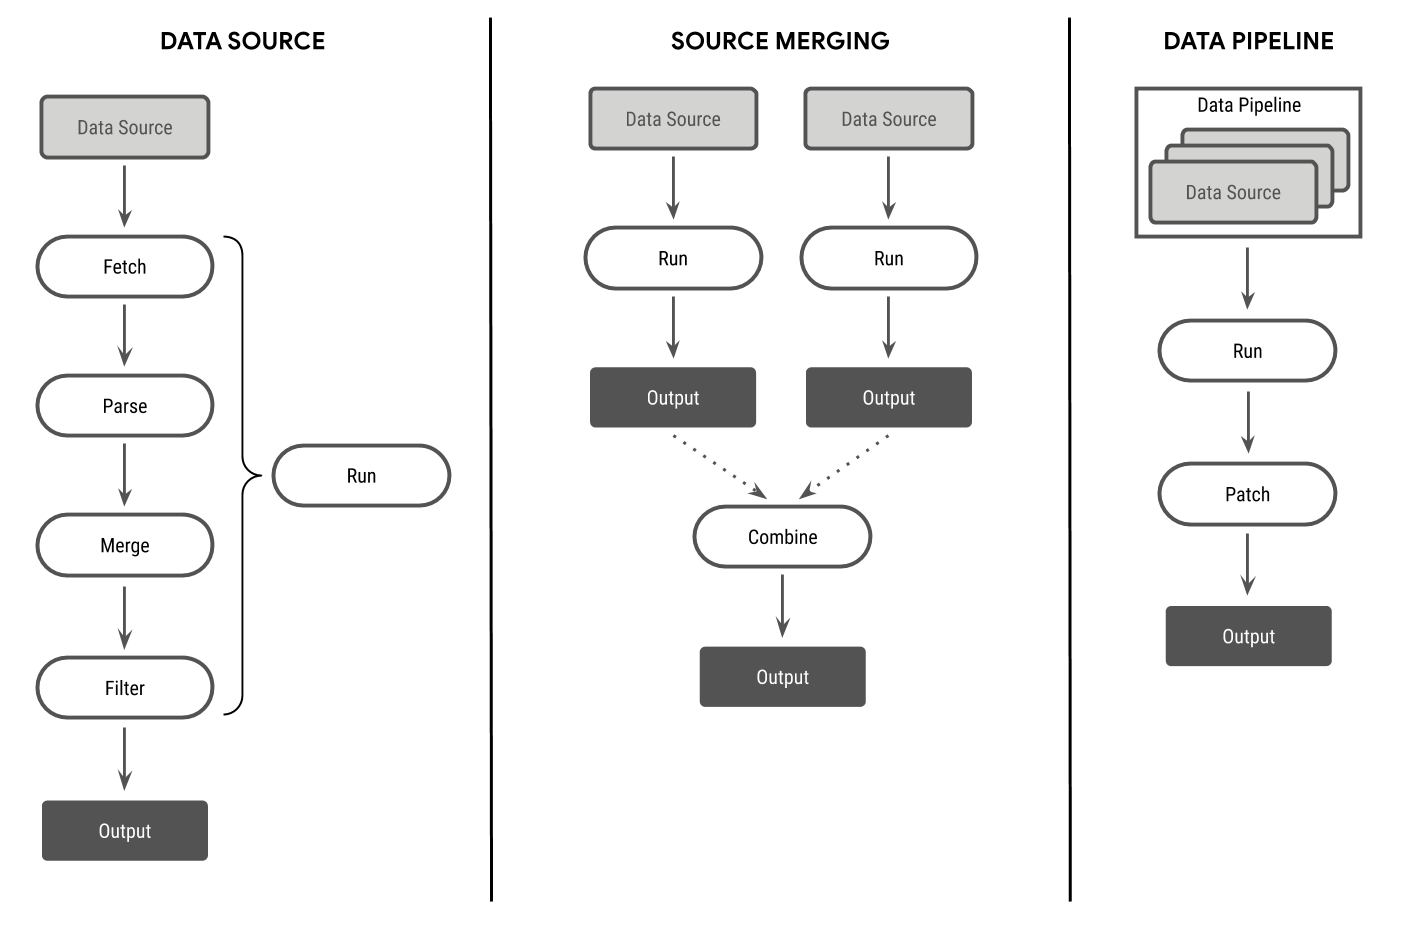
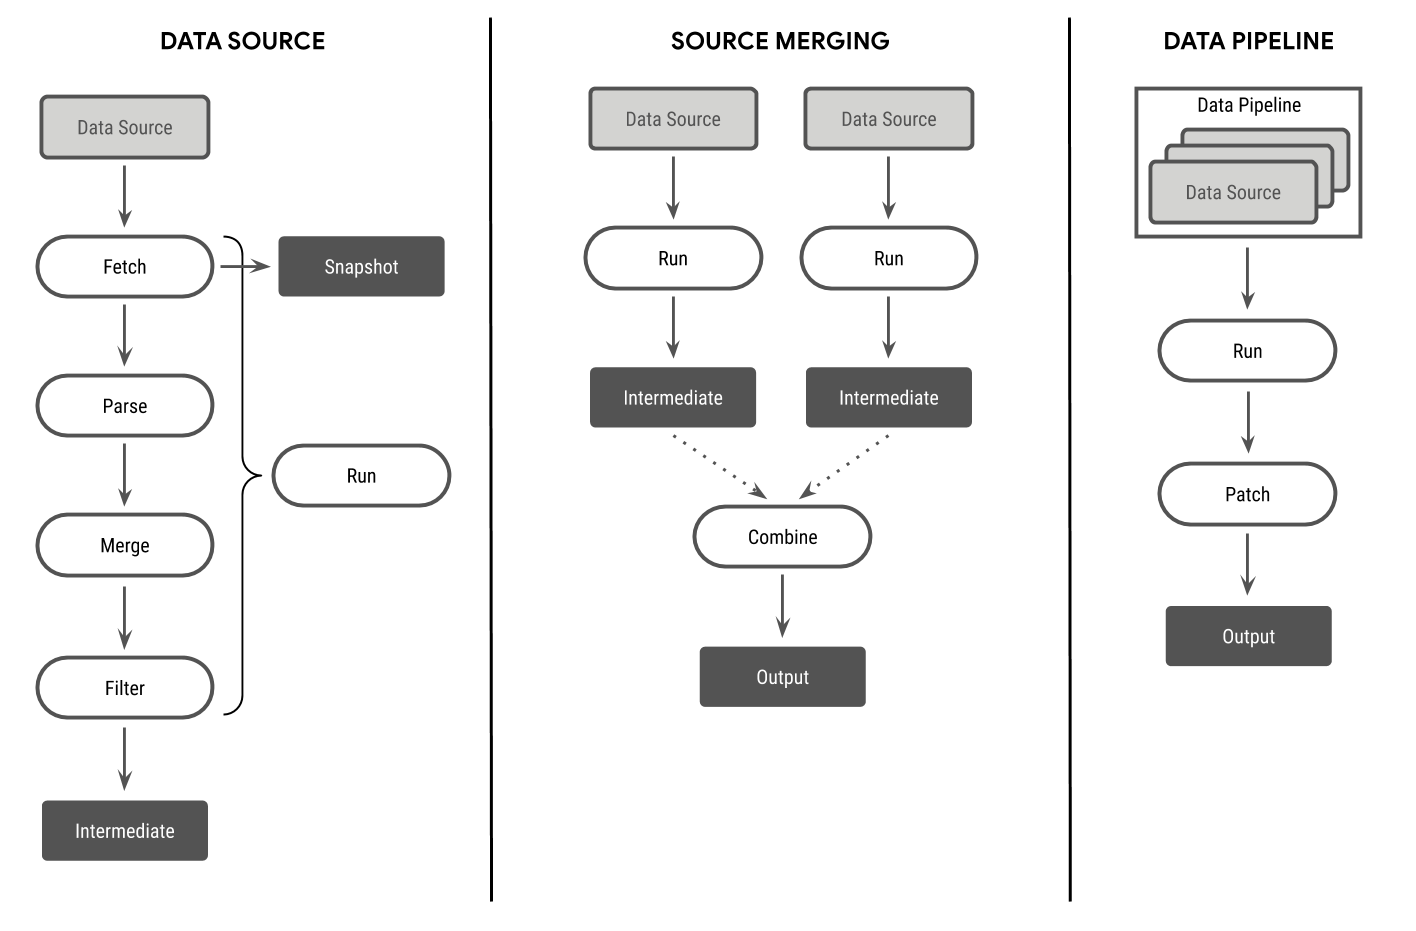
Add intermediate results to data pipeline

diff --git a/src/lib/pipeline.py b/src/lib/pipeline.py
@@ -14,6 +14,7 @@
 
 import re
 import sys
+import uuid
 import warnings
 import importlib
 import traceback
@@ -34,7 +35,7 @@ from .anomaly import detect_anomaly_all, detect_stale_columns
 from .cast import column_convert
 from .concurrent import process_map
 from .net import download_snapshot
-from .io import read_file, fuzzy_text
+from .io import read_file, fuzzy_text, export_csv
 from .utils import (
     ROOT,
     CACHE_URL,
@@ -256,8 +257,8 @@ class DataPipeline:
     schema: Dict[str, Any]
     """ Names and corresponding dtypes of output columns """
 
-    pipelines: List[Tuple[DataSource, Dict[str, Any]]]
-    """ List of pipeline-options tuples executed in order """
+    data_sources: List[Tuple[DataSource, Dict[str, Any]]]
+    """ List of <data source, option> tuples executed in order """
 
     auxiliary_tables: Dict[str, Union[Path, str]] = {
         "metadata": ROOT / "src" / "data" / "metadata.csv",
@@ -270,12 +271,12 @@ class DataPipeline:
         self,
         schema: Dict[str, type],
         auxiliary: Dict[str, Union[Path, str]],
-        pipelines: List[Tuple[DataSource, Dict[str, Any]]],
+        data_sources: List[Tuple[DataSource, Dict[str, Any]]],
     ):
         super().__init__()
         self.schema = schema
         self.auxiliary_tables = auxiliary
-        self.pipelines = pipelines
+        self.data_sources = data_sources
 
     @staticmethod
     def load(name: str):
@@ -326,14 +327,14 @@ class DataPipeline:
 
     @staticmethod
     def _run_wrapper(
-        pipeline_cache_aux: Tuple[DataSource, Dict[str, str], Dict[str, DataFrame]]
+        source_cache_aux: Tuple[DataSource, Dict[str, str], Dict[str, DataFrame]]
     ) -> Optional[DataFrame]:
         """ Workaround necessary for multiprocess pool, which does not accept lambda functions """
-        pipeline, cache, aux = pipeline_cache_aux
+        data_source, cache, aux = source_cache_aux
         try:
-            return pipeline.run(cache, aux)
+            return data_source.run(cache, aux)
         except Exception as exc:
-            warnings.warn("Error running pipeline {}".format(pipeline.__class__.__name__))
+            warnings.warn("Error running data source {}".format(data_source.__class__.__name__))
             traceback.print_exc()
         return None
 
@@ -372,8 +373,8 @@ class DataPipeline:
         map_iter = [
             # Make a copy of the auxiliary table to prevent modifying it for everyone, but this way
             # we allow for local modification (which might be wanted for optimization purposes)
-            (pipeline, cache, {name: df.copy() for name, df in aux.items()})
-            for pipeline in self.pipelines
+            (data_source, cache, {name: df.copy() for name, df in aux.items()})
+            for data_source in self.data_sources
         ]
 
         # If the process count is less than one, run in series (useful to evaluate performance)
@@ -390,11 +391,32 @@ class DataPipeline:
                 DataPipeline._run_wrapper, map_iter, desc=progress_label, disable=not progress
             )
 
+        # Save all intermediate results (to allow for reprocessing)
+        intermediate_outputs = ROOT / "output" / "intermediate"
+        intermediate_outputs_files = []
+        for (data_source, _, _), result in zip(map_iter, map_func):
+            data_source_class = data_source.__class__
+            data_source_config = str(data_source.config)
+            source_full_name = f"{data_source_class.__module__}.{data_source_class.__name__}"
+            intermediate_name = uuid.uuid5(
+                uuid.NAMESPACE_DNS, f"{source_full_name}.{data_source_config}"
+            )
+            intermediate_file = intermediate_outputs / f"{intermediate_name}.csv"
+            intermediate_outputs_files += [intermediate_file]
+            if result is not None:
+                export_csv(result, intermediate_file)
+
+        # Reload all intermediate results from disk
+        # In-memory results are discarded, this ensures reproducibility and allows for data sources
+        # to fail since the last successful intermediate result will be used in the combined output
+        pipeline_outputs = [
+            read_file(source_output) for source_output in intermediate_outputs_files
+        ]
+
         # Get rid of all columns which are not part of the output to speed up data combination
         pipeline_outputs = [
-            result[filter_output_columns(result.columns, self.schema)]
-            for result in map_func
-            if result is not None
+            source_output[filter_output_columns(source_output.columns, self.schema)]
+            for source_output in pipeline_outputs
         ]
 
         # Combine all pipeline outputs into a single DataFrame

diff --git a/src/update.py b/src/update.py
@@ -46,8 +46,9 @@ assert not (
 
 
 # Ensure that there is an output folder to put the data in
-(ROOT / "output" / "tables").mkdir(parents=True, exist_ok=True)
 (ROOT / "output" / "snapshot").mkdir(parents=True, exist_ok=True)
+(ROOT / "output" / "intermediate").mkdir(parents=True, exist_ok=True)
+(ROOT / "output" / "tables").mkdir(parents=True, exist_ok=True)
 
 if args.profile:
     profiler = cProfile.Profile()
